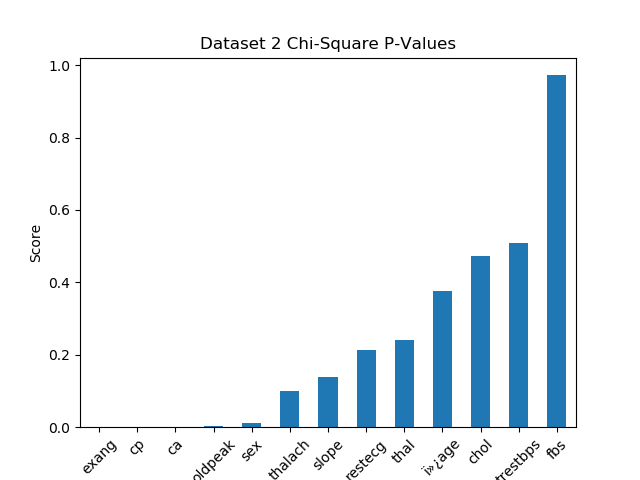
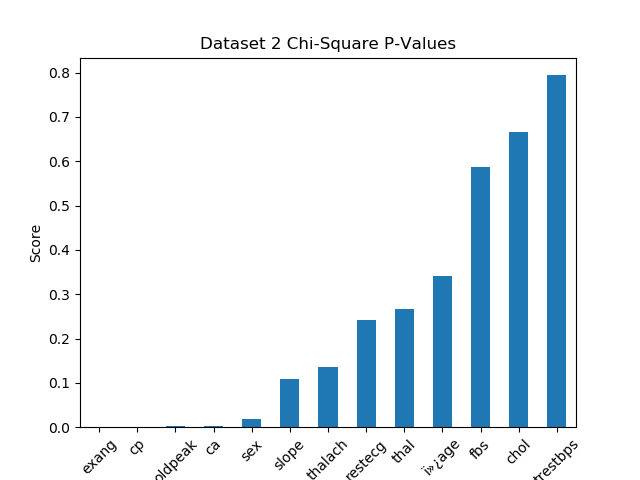
feature selection by threshold

diff --git a/feature_selection/filter_selection.py b/feature_selection/filter_selection.py
@@ -1,6 +1,7 @@
 import sklearn.feature_selection as fs
 import pandas as pd
 import numpy as np
+import operator
 from feature_selection.multivariate import MultivariateSelection
 from feature_selection.univariate import UnivariateSelection
 
@@ -12,19 +13,33 @@ class FilterSelection():
         self.ms = MultivariateSelection(min_features)
 
     def chi2(self, data, target_data):
-        return self.us.chi_square_selection(data, target_data)
+        feature_scores = self.us.chi_square_selection(data, target_data)
+        return self.drop_columns(data, feature_scores, operator.lt, 0.1)
 
     def mi(self, data, target_data):
-        return self.us.mi_selection(data, target_data)
+        feature_scores = self.us.mi_selection(data, target_data)
+        return self.drop_columns(data, feature_scores, operator.gt, 0.08)
 
     def rf(self, data, target_data):
-        top_features = self.ms.relief_selection(data.to_numpy(), target_data.to_numpy())
-        return data[data.columns[top_features]]
+        feature_scores = self.ms.relief_selection(data.to_numpy(), target_data.to_numpy())
+        return self.drop_columns(data, feature_scores, operator.gt, 500)
 
     def mrmr(self, data):
         return self.ms.mrmr_selection(data)
 
-    
+
+    # Function to drop columns
+    def drop_columns(self, data, scores, compare, threshold):
+        drop_columns = []
+
+        # Loop through each of the IG values (Ignore last value (target variable))
+        for i in range(len(scores)):
+            # If the value doesnt meet the threshold, append to list of columns to drop
+            if compare(scores[i], threshold):
+                print(f'{scores[i]}')
+                drop_columns.append(data.columns[i])
+
+        return data.drop(columns=drop_columns)
 
 
     

diff --git a/main.py b/main.py
@@ -43,7 +43,7 @@ def main():
 
     print("\n---------- Filter Feature Selection ----------")
     # Create FS object
-    fs = FeatureSelection(x_train, y_train, 9)
+    fs = FeatureSelection(x_train, y_train, 7)
     fs.exec_fs()
 
 
@@ -63,18 +63,16 @@ def main():
     for subset in fs.feature_sets.keys():
         
         print(f"\n\n{subset} Feature Selection")
-        # Use different subset sizes with a minimum of 5 features
-        for subset_size in range(5, fs.k + 1):
-            print(f"Testing with {subset_size} features...")
-            # Get relative columns
-            columns = fs.feature_sets[subset][:subset_size]
 
-            # Train and test model using relative columns
-            classifier = Classification(model, x_train[columns], y_train, x_test[columns], y_test)
-            classifier.run()
-            
-            c.compare(subset, columns, classifier)
+        # Get relative columns
+        columns = fs.feature_sets[subset]
 
+        # Train and test model using relative columns
+        classifier = Classification(model, x_train[columns], y_train, x_test[columns], y_test)
+        classifier.run()
+        
+        # Compare and display results
+        c.compare(subset, columns, classifier)
         c.display_method_result(subset)
 
     c.display_results()

diff --git a/feature_selection/univariate.py b/feature_selection/univariate.py
@@ -19,8 +19,10 @@ class UnivariateSelection:
         chi_plt.plot_fs(p_values, 'chi-square', 'Dataset 2 Chi-Square P-Values')
         del chi_plt
 
+        return p_values
+
         # Drop features below threshold (95% confidence, set alpha = 0.05)
-        return self.selector(fs.chi2, data, target_data)
+        #return self.selector(fs.chi2, data, target_data)
 
 
     # Mutual Information Feature Selection
@@ -31,7 +33,10 @@ class UnivariateSelection:
         mi_plt.plot_fs(mi, 'mutual_info', 'Dataset 2 MI Feature Scores')
         del mi_plt
 
-        return self.selector(fs.mutual_info_classif, data, target_data)
+        print(mi)
+
+        return mi
+        # return self.selector(fs.mutual_info_classif, data, target_data)
         
     
     def selector(self, method, data, target_data):

diff --git a/comparison.py b/comparison.py
@@ -63,10 +63,11 @@ class Comparison:
 
     def display_method_result(self, fs):
         results = self.fs_method_best[fs]
-        print(f'\n\n{fs} best results with {results["subset"]} features:')
+        print(f'\n{fs} best results with {results["subset"]} features:')
         print(f'Accuracy: {(results.get("acc") * 100):.2f}%')
         print(f'Sensitivity: {(results.get("sens") * 100):.2f}%')
         print(f'Specificity: {(results.get("spec") * 100):.2f}%')
+
 
     # Display best overall results
     def display_results(self):

diff --git a/feature_selection/multivariate.py b/feature_selection/multivariate.py
@@ -1,5 +1,6 @@
 import pymrmr
 from ReliefF import ReliefF as rf
+import numpy as np
 
 class MultivariateSelection():
     def __init__(self, k):
@@ -13,8 +14,8 @@ class MultivariateSelection():
     # Feature selection using ReliefF algorithm    
     def relief_selection(self, data, target_data):
         w = rf(n_features_to_keep=self.k)
-
         w.fit(data, target_data)
-
-        return w.top_features[:self.k]
+        
+        # absolute so all scores are positive
+        return w.feature_scores
 

diff --git a/data_process/data.py b/data_process/data.py
@@ -21,6 +21,10 @@ class DataInit:
         # Read in dataset
         df = read_data.csv_to_df(os.path.join('data', self.datasets[choice - 1]), sep)
 
+        # drop id column form dataset 2
+        if (choice == 2):
+            df.drop(columns=['id'])
+
         # pass in selected dataset with name of target column
         processor = PreProcessing(df, self.targets[choice - 1])
         self.process_data(processor, self.numerical_cols[choice - 1])

diff --git a/data_process/read_data.py b/data_process/read_data.py
@@ -2,4 +2,4 @@ import pandas as pd
 
 def csv_to_df(path_to_csv, delimiter=','):
     print("Reading data csv file...")
-    return pd.read_csv(path_to_csv, sep=delimiter)
+    return pd.read_csv(path_to_csv, sep=delimiter, engine='python')
